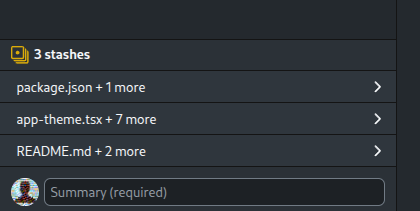
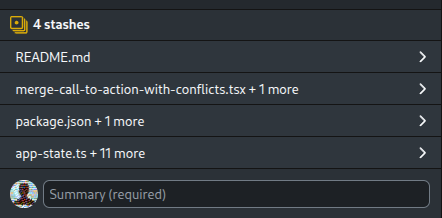
Update README highlights
Git Worktrees support is no longer exclusive to this fork

diff --git a/README.md b/README.md
@@ -9,8 +9,8 @@ This is an **up-to-date** fork of [GitHub Desktop](https://desktop.github.com) w
 | <h4>Search commits by title, message, tag, or hash</h4> | <h4>Add multiple GitHub, Bitbucket & GitLab accounts</h4> |
 | :---: | :---: |
 | ![Commit search](docs/assets/github-desktop-plus-demo-search.webp) | ![Multiple accounts](docs/assets/github-desktop-plus-demo-multiaccount.webp) |
-| <h4>Create multiple stashes per branch</h4> | <h4>Native support for Git Worktrees</h4> |
-| ![Multiple stashes](docs/assets/github-desktop-plus-demo-stashes.webp) | ![Worktrees](docs/assets/github-desktop-plus-demo-worktrees.webp) |
+| <h4>Create multiple stashes per branch</h4> | <h4>Visualize the Commit Graph</h4> |
+| ![Multiple stashes](docs/assets/github-desktop-plus-demo-stashes.webp) | ![Commit Graph](docs/assets/github-desktop-plus-demo-commit-graph.webp) |
 | <h4>Buttons optimized for visual recognition</h4> | <h4>Quickly find unpushed branches</h4> |
 | ![Stash header](docs/assets/github-desktop-plus-demo-stash-header.webp) | ![Branch push indicator](docs/assets/github-desktop-plus-demo-push-indicator.webp) |
 
@@ -25,9 +25,6 @@ This is an **up-to-date** fork of [GitHub Desktop](https://desktop.github.com) w
 - Support for **multiple accounts** of the same endpoint (e.g. multiple GitHub accounts).  
   Simply add as many accounts as you want in the "Accounts" settings page. If a repository is using an incorrect account, you can change it in the repository settings.
 
-- Support for **Git Worktrees**: view and manage all your worktrees in the same repository, with the ability to easily switch between them.  
-  To view the worktrees dropdown, enable it in the app settings or press `Ctrl+E` / `Cmd+E`.
-
 - Support for **multiple windows**: open multiple repositories in separate windows, or the same repository in multiple windows (e.g. to view different files at the same time).  
   Select "File" > "Open new window" or press `Ctrl+Alt+N`/`Cmd+Alt+N`. You can also right-click on a repository in the list and select "Open repository in new window".
 
@@ -41,6 +38,8 @@ This is an **up-to-date** fork of [GitHub Desktop](https://desktop.github.com) w
   The integration is enabled automatically for the corresponding repositories if you are logged in to your account. 
 
 - Allow using a **different text editor for a given repo**, by overriding it in the repository settings.
+
+- Allow displaying **SVG files as an image** preview in the diff view.
 
 - Some similar-looking buttons now have distinct **icons** for faster visual recognition.
 
@@ -62,6 +61,8 @@ This is an **up-to-date** fork of [GitHub Desktop](https://desktop.github.com) w
 - Allow customizing the **repository groups** to better organize your repositories.  
   Right click on a repository and select "Change group name".
 
+- Allow **pinning** repositories to the top of the list.
+
 ### Branches list:
 
 - Added a warning indicator to **local-only branches** (branches that have not been pushed to the remote, or that have been deleted automatically after a PR).
@@ -74,6 +75,8 @@ This is an **up-to-date** fork of [GitHub Desktop](https://desktop.github.com) w
 ### History tab:
 
 - **Search commits** by title, message, tag, or hash.
+
+- Allow switching to a **Commit Graph** view to visualize the merge history.
 
 - Use a different font style for **merge commits** in order to make them visually distinct, since most of the time they are not as relevant.
 